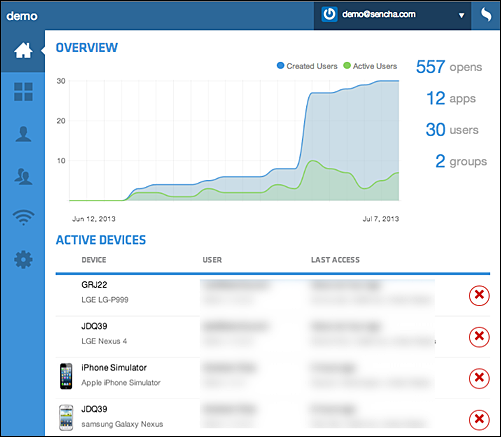
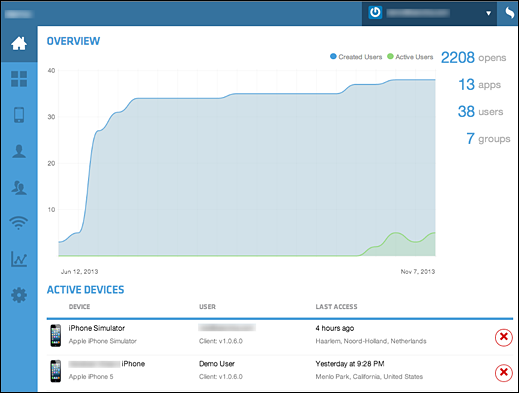
Admin Guide Update

diff --git a/docs/guides/admin_guide/README.md b/docs/guides/admin_guide/README.md
@@ -12,10 +12,10 @@ Google Play, or BlackBerry World Apps market.
 
 ## Sencha Space Features
 
-The Administration Application contains these menus:
+The Administration Application side menu contains these buttons:
 
 <table border="1" style="width: 600px">
-<tr><th>Menu</th><th>Description</th></tr>
+<tr><th>Icon</th><th>Description</th></tr>
 <tr><td>{@img Space_Ad_Overview_Icon.png}</td>
   <td><a href="#OverviewTab">Overview</a> - Monitors organization Space usage and user 
   device and location</td></tr>
@@ -28,8 +28,37 @@ removes applications</td></tr>
   <td><a href="#GroupsTab">Groups</a> - Lists, adds, and removes group access to Space</td></tr>
 <tr><td>{@img Space_Ad_VPNServices_Icon.png}</td>
   <td><a href="#VPNServicesTab">VPN Services</a> - Manages VPN services</td></tr>
+<tr><td>{@img Space_Ad_ReportsIcon.png}</td>
+<td>Provides interactive reports for:
+<ul>
+<li>Last Seen - Number of users logging in. Lets you filter by duration, 
+date range, platform OS, platform version, and whether the device is 
+owned by the user or the organization. Also lists recent logins.</li>
+<li>Platform Distribution - Pie chart by device platform with filters for 
+date range, platform OS, platform version, and whether the device is owned 
+by the user or the organization. Also lists current devices.</li>
+<li>App Launches - Number of app launches with filters for 
+date range, platform OS, platform version, and whether the device is owned 
+by the user or the organization. Also lists the available apps by usage,
+with columns for when the app was created (made available to your organization).</li>
+</ul>
+</td></tr>
 <tr><td>{@img Space_Ad_GearIcon.png}</td>
-  <td><a href="#GearTab">Settings</a> - Changes organization, email, and billing settings</td></tr>
+  <td><a href="#GearTab">Settings</a> - Provides settings for:
+<ul>
+<li>General - Specify organization name, organization code, email method, and billing address.</li>
+<li>Security Policy - Specify user session duration, PIN length, 
+and maximum attempts before lock out.</li>
+<li>Authentication - Specify authentication method, Security Assertion Markup Language (SAML) 
+configuration, and Identity Provider (IDP) information.</li>
+</ul>
+</td></tr>
+</table>
+
+The top menu contains these buttons:
+
+<table border="1" style="width: 600px">
+<tr><th>Icon</th><th>Description</th></tr>
 <tr><td>{@img Space_Ad_AdminMenu.png}</td>
   <td><a href="#AdminMenu">Admin Menu</a> - Edit the admin profile, switch organizations, or log out of Sencha Space</td></tr>
 <tr><td>{@img Space_Ad_SenchaIcon.png}</td>
